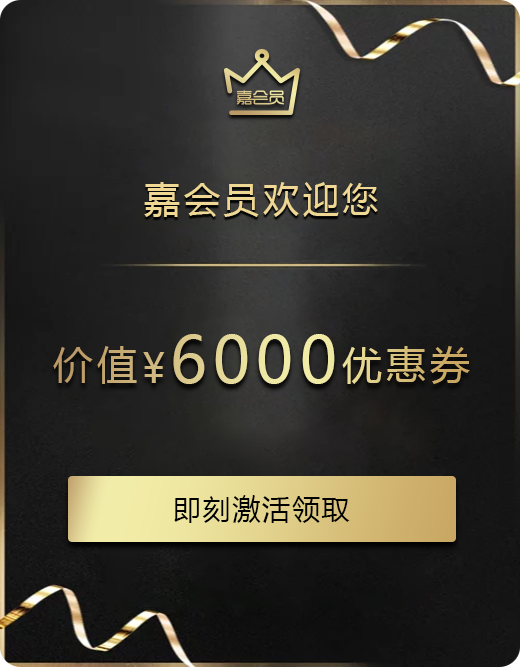
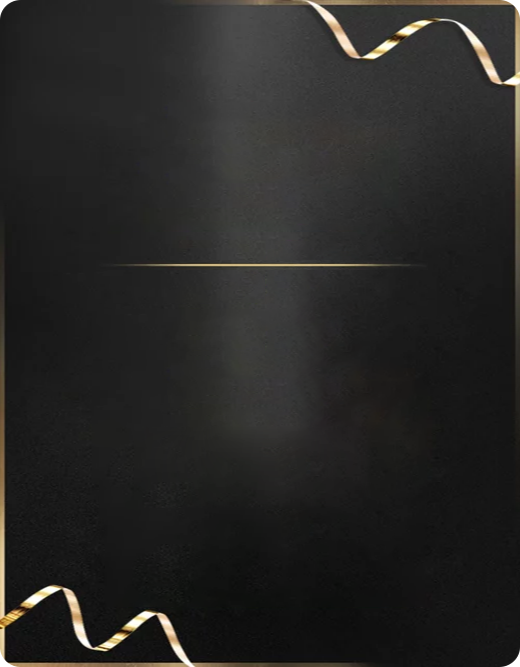
修改首页弹窗，及其他小改动
修改首页弹窗，及其他小改动

diff --git a/src/components/homepage/activeBox.less b/src/components/homepage/activeBox.less
@@ -31,7 +31,7 @@
     transform:scale(0.8);
     transition: transform 0.3s linear;
 
-    span{
+    /*span{
       position: absolute;
       top: 5px;
       right: 5px;
@@ -41,28 +41,110 @@
       border: 1px solid #4a4a4a;
       line-height: 18px;
       text-align: center;
-    }
+    }*/
 
     .check_btn{
 
       width: 70%;
       position: absolute;
-      bottom: 90px;
+      bottom: 60px;
       left: 15%;
+
+      @media (max-width: 320px) {
+        bottom: 50px;
+      }
 
       button{
         width: 100%;
         text-align: center;
-        padding: 12px 0;
-        color: #bb9966;
-        background: #000000;
+        padding: 10px 0;
+        color: #000000;
+        background: linear-gradient(to right,#f1eca8,#c8a662);
         border-radius: 4px;
         border: none;
         outline: 0;
         font-size: 16px;
-
+        box-shadow: 0 5px 5px -5px #000000;
       }
     }
+  }
+
+}
+
+.popup_logo_plate {
+  position: absolute;
+  top: 5%;
+  left: 41%;
+  width: 40px;
+  height: 40px;
+
+  img {
+    width: 100%;
+    height: 100%;
+  }
+
+}
+
+.popup_welcome_font {
+  text-align: center;
+  margin-top: 30%;
+  color: #eed894;
+  font-size: 18px;
+  text-shadow: 0 2px 0 #000000;
+
+  @media (max-width: 320px) {
+    font-size: 16px;
+  }
+
+}
+
+.popup_welcome_details {
+  font-size: 20px;
+  position: absolute;
+  top: 45%;
+  text-shadow: 0 3px 0 #000000;
+  text-align: center;
+  width: 100%;
+
+  @media (max-width: 320px) {
+    font-size: 18px;
+    top: 44%;
+  }
+
+  span {
+    font-size: 32px;
+
+    @media (max-width: 320px) {
+      font-size: 28px;
+    }
+
+  }
+
+}
+
+.popup_welcome_content {
+  font-size: 20px;
+  background: linear-gradient(to right, #bb9966, #f1eca8, #bb9966);
+  -webkit-background-clip: text;
+  color: transparent;
+  position: absolute;
+  top: 45%;
+  z-index: 1;
+  text-align: center;
+  width: 100%;
+
+  @media (max-width: 320px) {
+    font-size: 18px;
+    top: 44%;
+  }
+
+  span {
+    font-size: 32px;
+
+    @media (max-width: 320px) {
+      font-size: 28px;
+    }
+
   }
 
 }

diff --git a/src/components/homepage/activeBox.vue b/src/components/homepage/activeBox.vue
@@ -3,11 +3,17 @@
   <div class="active_box" @click="getCoupons">
 
     <div class="main_box">
-      <!--<span>x</span>
+      <div class="popup_logo_plate"><img src="../../../static/images/img_popup_logo.png"/></div>
+
+      <p class="popup_welcome_font">嘉会员欢迎您</p>
+
+      <p class="popup_welcome_details">价值￥<span>6000</span>优惠券</p>
+
+      <p class="popup_welcome_content">价值￥<span>6000</span>优惠券</p>
 
       <div class="check_btn">
-        <button onclick="boxShow.checkHide('active_box');boxShow.checkShow('homepage_coupons')">确认</button>
-      </div>-->
+        <button onclick="boxShow.checkHide('active_box');boxShow.checkShow('homepage_coupons')">即刻激活领取</button>
+      </div>
     </div>
 
     <div class="box_shadow"></div>

diff --git a/src2/basic/banner.less b/src2/basic/banner.less
@@ -132,3 +132,20 @@
     width: 100%;
   }
 }
+
+.wc-slide{
+
+  position: relative;
+}
+
+.jf_homepage_autoplay {
+
+  .wc-pagination .wc-dot-active{
+    background: #bb9966;
+  }
+
+}
+
+.wc-swiper-container{
+  height: 100%;
+}

diff --git a/src/components/homepage/banner.vue b/src/components/homepage/banner.vue
@@ -61,18 +61,7 @@
 
 <style lang="less">
 
-  .wc-slide{
 
-    position: relative;
-  }
-
-  .wc-pagination .wc-dot-active{
-    background: #bb9966;
-  }
-
-  .wc-swiper-container{
-    height: 100%;
-  }
 
 </style>
 

diff --git a/src2/component/login/input.less b/src2/component/login/input.less
@@ -8,7 +8,7 @@
 
       position: relative;
       height: auto;
-      top: 80px;
+      top: 60px;
 
     }
   }
